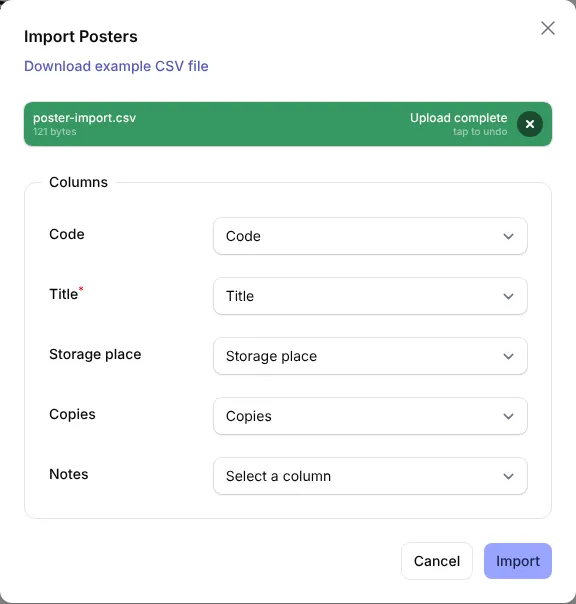
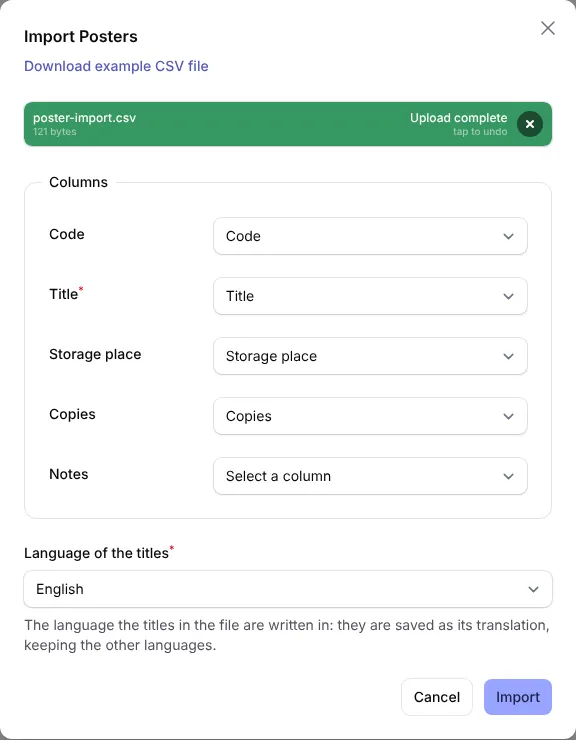
feat(posters): choose the language of the import
The import window asks the language of the titles in the file, the one
of the user by default, instead of relying on the user's language.

diff --git a/app/Filament/Imports/PosterImporter.php b/app/Filament/Imports/PosterImporter.php
@@ -9,6 +9,8 @@ use App\Support\Translations;
 use Filament\Actions\Imports\Exceptions\RowImportFailedException;
 use Filament\Actions\Imports\Importer;
 use Filament\Actions\Imports\Models\Import;
+use Filament\Forms\Components\Select;
+use Filament\Schemas\Components\Component;
 use Illuminate\Database\Eloquent\Builder;
 use Illuminate\Support\Facades\Gate;
 use Illuminate\Support\Number;
@@ -47,7 +49,9 @@ class PosterImporter extends Importer
                 ->exampleHeader(fn (): string => __('import.poster.columns.title'))
                 ->examples(fn (): array => array_fill(0, 2, __('import.poster.examples.title')))
                 ->requiredMapping()
-                ->rules(['required', 'max:255']),
+                ->rules(['required', 'max:255'])
+                // In the language chosen in the import window, keeping the translations in the other languages
+                ->fillRecordUsing(fn (Poster $record, string $state, array $options) => $record->setTranslation('title', static::getTitleLocale($options), $state)),
             EnglishImportColumn::make('storage')
                 ->label(fn (): string => __('import.poster.columns.storage'))
                 ->guess(['storage', 'storage place', 'location'])
@@ -80,8 +84,38 @@ class PosterImporter extends Importer
     }
 
     /**
+     * The options of the import window: the language of the titles in the file, the one of the user by default.
+     *
+     * @return array<Component>
+     */
+    public static function getOptionsFormComponents(): array
+    {
+        return [
+            Select::make('locale')
+                ->label(__('import.poster.options.locale'))
+                ->helperText(__('import.poster.options.locale_helper'))
+                ->options(Translations::getLocales())
+                ->default(app()->getLocale())
+                ->required()
+                ->selectablePlaceholder(false),
+        ];
+    }
+
+    /**
+     * The language the titles are saved in: the one chosen in the import window, or the one of the user.
+     *
+     * @param  array<string, mixed>  $options
+     */
+    public static function getTitleLocale(array $options): string
+    {
+        $locale = $options['locale'] ?? null;
+
+        return is_string($locale) && array_key_exists($locale, Translations::getLocales()) ? $locale : app()->getLocale();
+    }
+
+    /**
      * The poster with the same code or, without a code, with the same title in any language (the title of the row is
-     * saved in the language of the user who started the import).
+     * saved in the language chosen in the import window).
      */
     public function resolveRecord(): Poster
     {

diff --git a/tests/Feature/PosterImporterTest.php b/tests/Feature/PosterImporterTest.php
@@ -32,8 +32,9 @@ beforeEach(function () {
  * Import the given rows as the queue worker does, keeping the columns named as in the importer.
  *
  * @param  list<array<string, string>>  $rows
+ * @param  array<string, mixed>  $options  e.g. the language of the titles (`locale`)
  */
-function runPosterImport(array $rows, User $user): Import
+function runPosterImport(array $rows, User $user, array $options = []): Import
 {
     $import = Import::create([
         'file_name' => 'posters.csv',
@@ -48,7 +49,7 @@ function runPosterImport(array $rows, User $user): Import
         ->mapWithKeys(fn ($column): array => [$column->getName() => $column->getName()])
         ->all();
 
-    (new ImportCsv($import, $rows, $columnMap))->handle();
+    (new ImportCsv($import, $rows, $columnMap, $options))->handle();
 
     return $import->refresh();
 }
@@ -102,6 +103,34 @@ test('the title is imported in the language of the user, keeping the other trans
     expect(Poster::count())->toBe(1)
         ->and($poster->fresh()->notes)->toBe('Updated')
         ->and($poster->fresh()->getTranslations('title'))->toEqual(['en' => 'Free Bible courses', 'it' => 'Free Bible courses']);
+});
+
+test('the titles are saved in the language chosen in the import window, keeping the other ones', function () {
+    $this->member->forceFill(['locale' => 'it'])->save();
+    $poster = Poster::factory()->create(['code' => 'mi-25', 'title' => ['en' => 'Enjoy life forever!', 'it' => 'Vivi felice per sempre!']]);
+
+    runPosterImport([
+        ['code' => 'mi-25', 'title' => '¡Disfrute de la vida para siempre!', 'storage' => '', 'quantity' => '', 'notes' => ''],
+    ], $this->member, ['locale' => 'es']);
+
+    expect($poster->fresh()->getTranslations('title'))->toEqual([
+        'en' => 'Enjoy life forever!',
+        'it' => 'Vivi felice per sempre!',
+        'es' => '¡Disfrute de la vida para siempre!',
+    ]);
+});
+
+test('the language of the titles is chosen in the import window, the one of the user by default', function () {
+    App::setLocale('it');
+
+    $select = collect(PosterImporter::getOptionsFormComponents())->sole();
+
+    expect($select->getName())->toBe('locale')
+        ->and($select->getDefaultState())->toBe('it')
+        ->and(array_keys($select->getOptions()))->toEqualCanonicalizing(array_keys(config('app.available_locales')))
+        // An unknown language falls back to the one of the user
+        ->and(PosterImporter::getTitleLocale(['locale' => 'xx']))->toBe('it')
+        ->and(PosterImporter::getTitleLocale([]))->toBe('it');
 });
 
 test('a poster can be imported without storage place, but not copies without one', function () {

diff --git a/lang/es/import.php b/lang/es/import.php
@@ -46,6 +46,10 @@ return [
             'quantity' => 'Copias',
             'notes' => 'Notas',
         ],
+        'options' => [
+            'locale' => 'Idioma de los títulos',
+            'locale_helper' => 'El idioma en que están escritos los títulos del archivo: se guardan como su traducción, conservando los demás idiomas.',
+        ],
         'examples' => [
             'title' => '¡Disfrute de la vida para siempre!',
             'storage' => 'Salón del Reino',

diff --git a/lang/it/import.php b/lang/it/import.php
@@ -46,6 +46,10 @@ return [
             'quantity' => 'Copie',
             'notes' => 'Note',
         ],
+        'options' => [
+            'locale' => 'Lingua dei titoli',
+            'locale_helper' => 'La lingua in cui sono scritti i titoli nel file: vengono salvati come sua traduzione, conservando le altre lingue.',
+        ],
         'examples' => [
             'title' => 'Goditi la vita per sempre!',
             'storage' => 'Sala del Regno',

diff --git a/lang/en/import.php b/lang/en/import.php
@@ -46,6 +46,10 @@ return [
             'quantity' => 'Copies',
             'notes' => 'Notes',
         ],
+        'options' => [
+            'locale' => 'Language of the titles',
+            'locale_helper' => 'The language the titles in the file are written in: they are saved as its translation, keeping the other languages.',
+        ],
         'examples' => [
             'title' => 'Enjoy life forever!',
             'storage' => 'Kingdom Hall',

diff --git a/docs/user-documentation/it/public-witnessing/posters.md b/docs/user-documentation/it/public-witnessing/posters.md
@@ -38,16 +38,17 @@ alto nella pagina e carica un file CSV con una riga per ogni poster e deposito:
 
 Serve solo il **Titolo**; **Scarica un file CSV di esempio** nella finestra fornisce un file da cui partire. Le colonne
 vengono riconosciute solo dal loro nome in inglese (*Code*, *Title*, *Storage place*, *Copies*, *Notes*), qualunque sia
-la lingua dell'interfaccia, mentre i valori si scrivono nella tua lingua; controllale in **Colonne** (una colonna con un
-altro nome si può sempre scegliere a mano), poi clicca **Importa**. Una notifica avvisa quando l'importazione è
-terminata, con le righe che non è stato possibile importare.
+la lingua dell'interfaccia; controllale in **Colonne** (una colonna con un altro nome si può sempre scegliere a mano),
+poi clicca **Importa**. Una notifica avvisa quando l'importazione è terminata, con le righe che non è stato possibile
+importare.
 
 ![Importare i poster](/docs/user-documentation/it/public-witnessing/assets/poster-import.webp)
 
 - Le righe con la stessa **Sigla** (o con lo stesso **Titolo**, se non c'è la sigla) sono lo stesso poster: importando
   di nuovo il file si aggiornano i poster e le loro copie invece di duplicarli.
 - Le **Copie** di una riga sostituiscono quelle di quel deposito; i depositi che non esistono ancora vengono creati.
-- I **Titoli** vengono salvati nella tua lingua: le traduzioni nelle altre lingue vengono conservate.
+- I **Titoli** vengono salvati nella **Lingua dei titoli** scelta nella finestra (la tua lingua, se non la cambi): le
+  traduzioni nelle altre lingue vengono conservate.
 
 ## Depositi
 

diff --git a/docs/user-documentation/en/public-witnessing/posters.md b/docs/user-documentation/en/public-witnessing/posters.md
@@ -38,16 +38,16 @@ upload a CSV file with a row for each poster and storage place:
 
 Only the **Title** is required; **Download example CSV file** in the window gives a file to start from. The columns are
 recognised only by their English name (*Code*, *Title*, *Storage place*, *Copies*, *Notes*), whatever the language of
-the interface, while the values are written in your language; check them under **Columns** (a column with another name
-can always be chosen by hand), then click **Import**. A notification tells when the import is over, with the rows that
-could not be imported.
+the interface; check them under **Columns** (a column with another name can always be chosen by hand), then click
+**Import**. A notification tells when the import is over, with the rows that could not be imported.
 
 ![Importing posters](/docs/user-documentation/en/public-witnessing/assets/poster-import.webp)
 
 - The rows with the same **Code** (or with the same **Title**, when there is no code) are the same poster: importing
   the file again updates the posters and their copies instead of duplicating them.
 - The **Copies** of a row replace the ones of that storage place; the storage places that don't exist yet are created.
-- The **Titles** are saved in your language: the translations in the other languages are kept.
+- The **Titles** are saved in the **Language of the titles** chosen in the window (your language by default): the
+  translations in the other languages are kept.
 
 ## Storage
 
